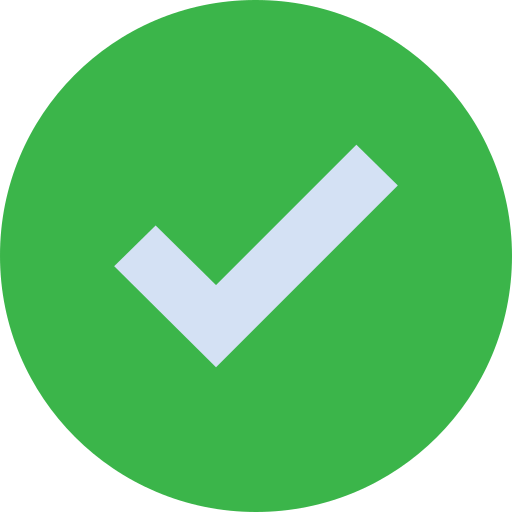
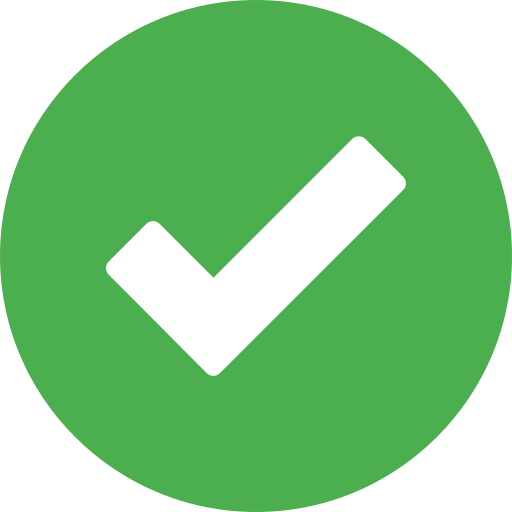
Changed check image for options correct

Changed region(s): [[0.1875, 0.25, 0.8125, 0.75]]

diff --git a/assets/css/style.css b/assets/css/style.css
@@ -1,4 +1,4 @@
-@import url('https://fonts.googleapis.com/css2?family=Lato:wght@300&family=Oswald&display=swap');
+@import url('https://fonts.googleapis.com/css2?family=Lato&family=Rubik+Pixels&display=swap');
 
 *{
     box-sizing: border-box;
@@ -10,9 +10,9 @@
 body {
     margin: 0;
     font-size: 20px;
-    background-color: rgb(80, 80, 81);
+    background-color: rgb(115, 115, 115);
     font-weight: 400;
-    font-family: Arial, Helvetica, sans-serif;
+    font-family: Lato, sans-serif;
 }
 
 .container{
@@ -21,7 +21,8 @@ body {
 }
 
 .container span{
-    margin-top: 50px;
+    margin-top: 20px;
+    font-family: Rubik Pixels, sans-serif;
     text-transform: uppercase;
     display: block;
 }
@@ -30,6 +31,7 @@ body {
     color: rgb(255, 249, 127);
     font-size: 60px;
     font-weight: 700;
+    font-family: Rubik Pixels;
     letter-spacing: 8px;
     margin-bottom: 5px;
     background: black;
@@ -53,9 +55,12 @@ body {
     }
 }
   
+.home-box{
+    top: 100px;
+}
 
 .custom-box {
-    max-width: 700px;
+    max-width: 800px;
     background: #fff;
     margin: 40px auto;
     padding: 30px;
@@ -84,7 +89,7 @@ body {
     display: none;
 }
 .home-box h3{
-    font-size: 25px;
+    font-size: 30px;
     font-weight: 500;
     text-align: center;
     color: cornflowerblue;
@@ -95,7 +100,7 @@ body {
 }
 
 .home-box p{
-    font-size: 16px;
+    font-size: 18px;
     font-weight: 400;
     color: black;
     margin-bottom: 10px;
@@ -117,7 +122,7 @@ body {
     color: #fff;
     background-color: rgb(80, 80, 81);
     font-size: 16px;
-    font-family: Arial, Helvetica, sans-serif;
+    font-family: Lato, sans-serif;
     display: inline-block;
     cursor: pointer;
 }
@@ -132,8 +137,9 @@ body {
 }
 
 .quiz-box .question-number{
-    font-size: 25px;
+    font-size: 30px;
     font-weight: 600;
+    text-align: center;
     color: cornflowerblue;
     border-bottom: 1px solid #cccc;
     padding-bottom: 10px;
@@ -152,7 +158,7 @@ body {
 
 .quiz-box .option-container .option{
     background-color: #cccc;
-    font-size: 15px;
+    font-size: 16px;
     color: black;
     margin-bottom: 10px;
     padding: 13px 15px;
@@ -182,7 +188,7 @@ body {
     height: 100%;
     width: 100%;
     content: '';
-    background-color: green;
+    background-color: rgb(6, 207, 6);
     z-index: -1;
     animation: slideInLeft .5s ease forwards;
 }
@@ -207,7 +213,7 @@ body {
     height: 100%;
     width: 100%;
     content: '';
-    background-color: red;
+    background-color: rgb(255, 95, 95);
     z-index: -1;
     animation: slideInLeft .5s ease forwards;
 }
@@ -224,11 +230,11 @@ body {
 }
 
 .quiz-box .answers-indicator{
-    border-top: 1px solid #cccc;
+    border-top: 1px solid rgba(239, 239, 239, 0.8);
 }
 
 .quiz-box .answers-indicator div{
-    background-color: #cccc;
+    background-color: rgba(243, 242, 242, 0.8);
     border-radius: 50%;
     height: 50px;
     width: 50px;

diff --git a/index.html b/index.html
@@ -6,7 +6,7 @@
     <meta name="viewport" content="width=device-width, initial-scale=1.0">
     <link rel="stylesheet" href="assets/css/style.css">
     <link rel="icon" type="image" href="assets/images/idea.png">
-    <title>Quiz</title>
+    <title>Quiz K'Y'C</title>
 </head>
 <body>
     <div class="container">
@@ -15,7 +15,7 @@
     </div>
 
     <div class="home-box custom-box">
-        <h3>Quiz Rules:</h3>
+        <h3>Quiz Rules:<span><i class="fa-solid fa-comment-exclamation"></i></span></h3>
         <p>1. User have to attempt 10 questions.</p>
         <p>2. Once the quiz starts you can't exit it.</p>
         <p>3. If you press the next button without answering, you will not get the score for that.</p>
